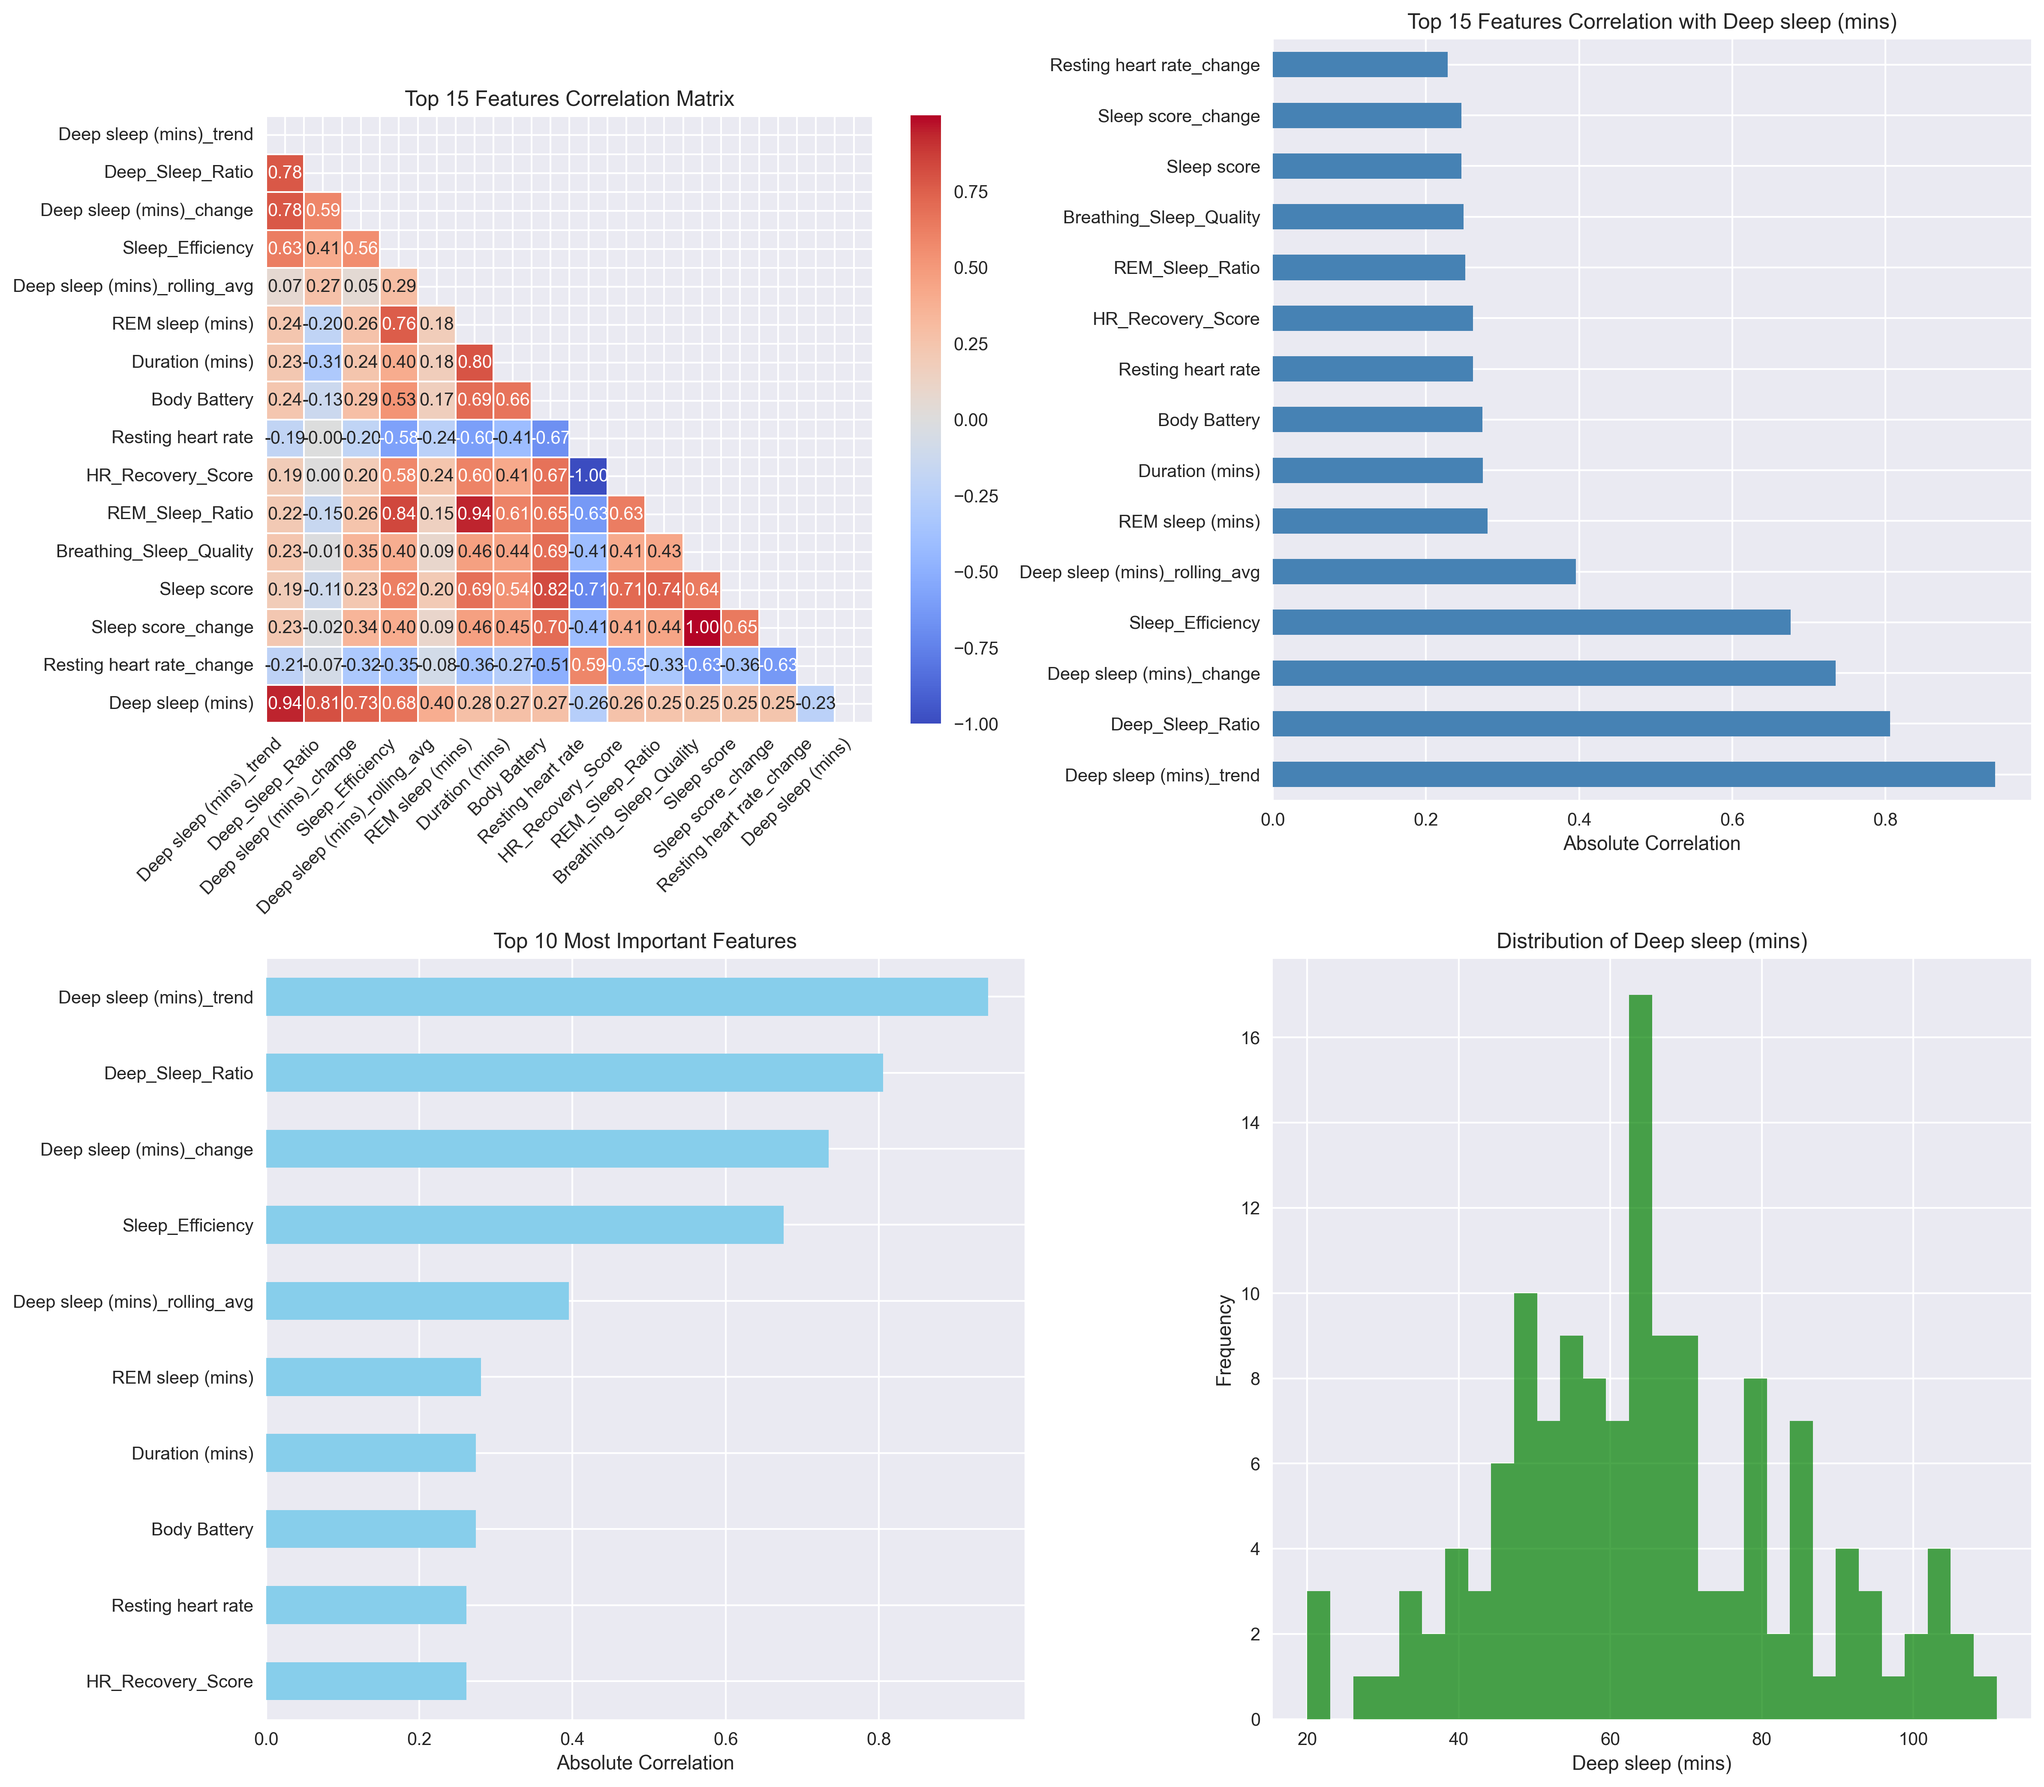
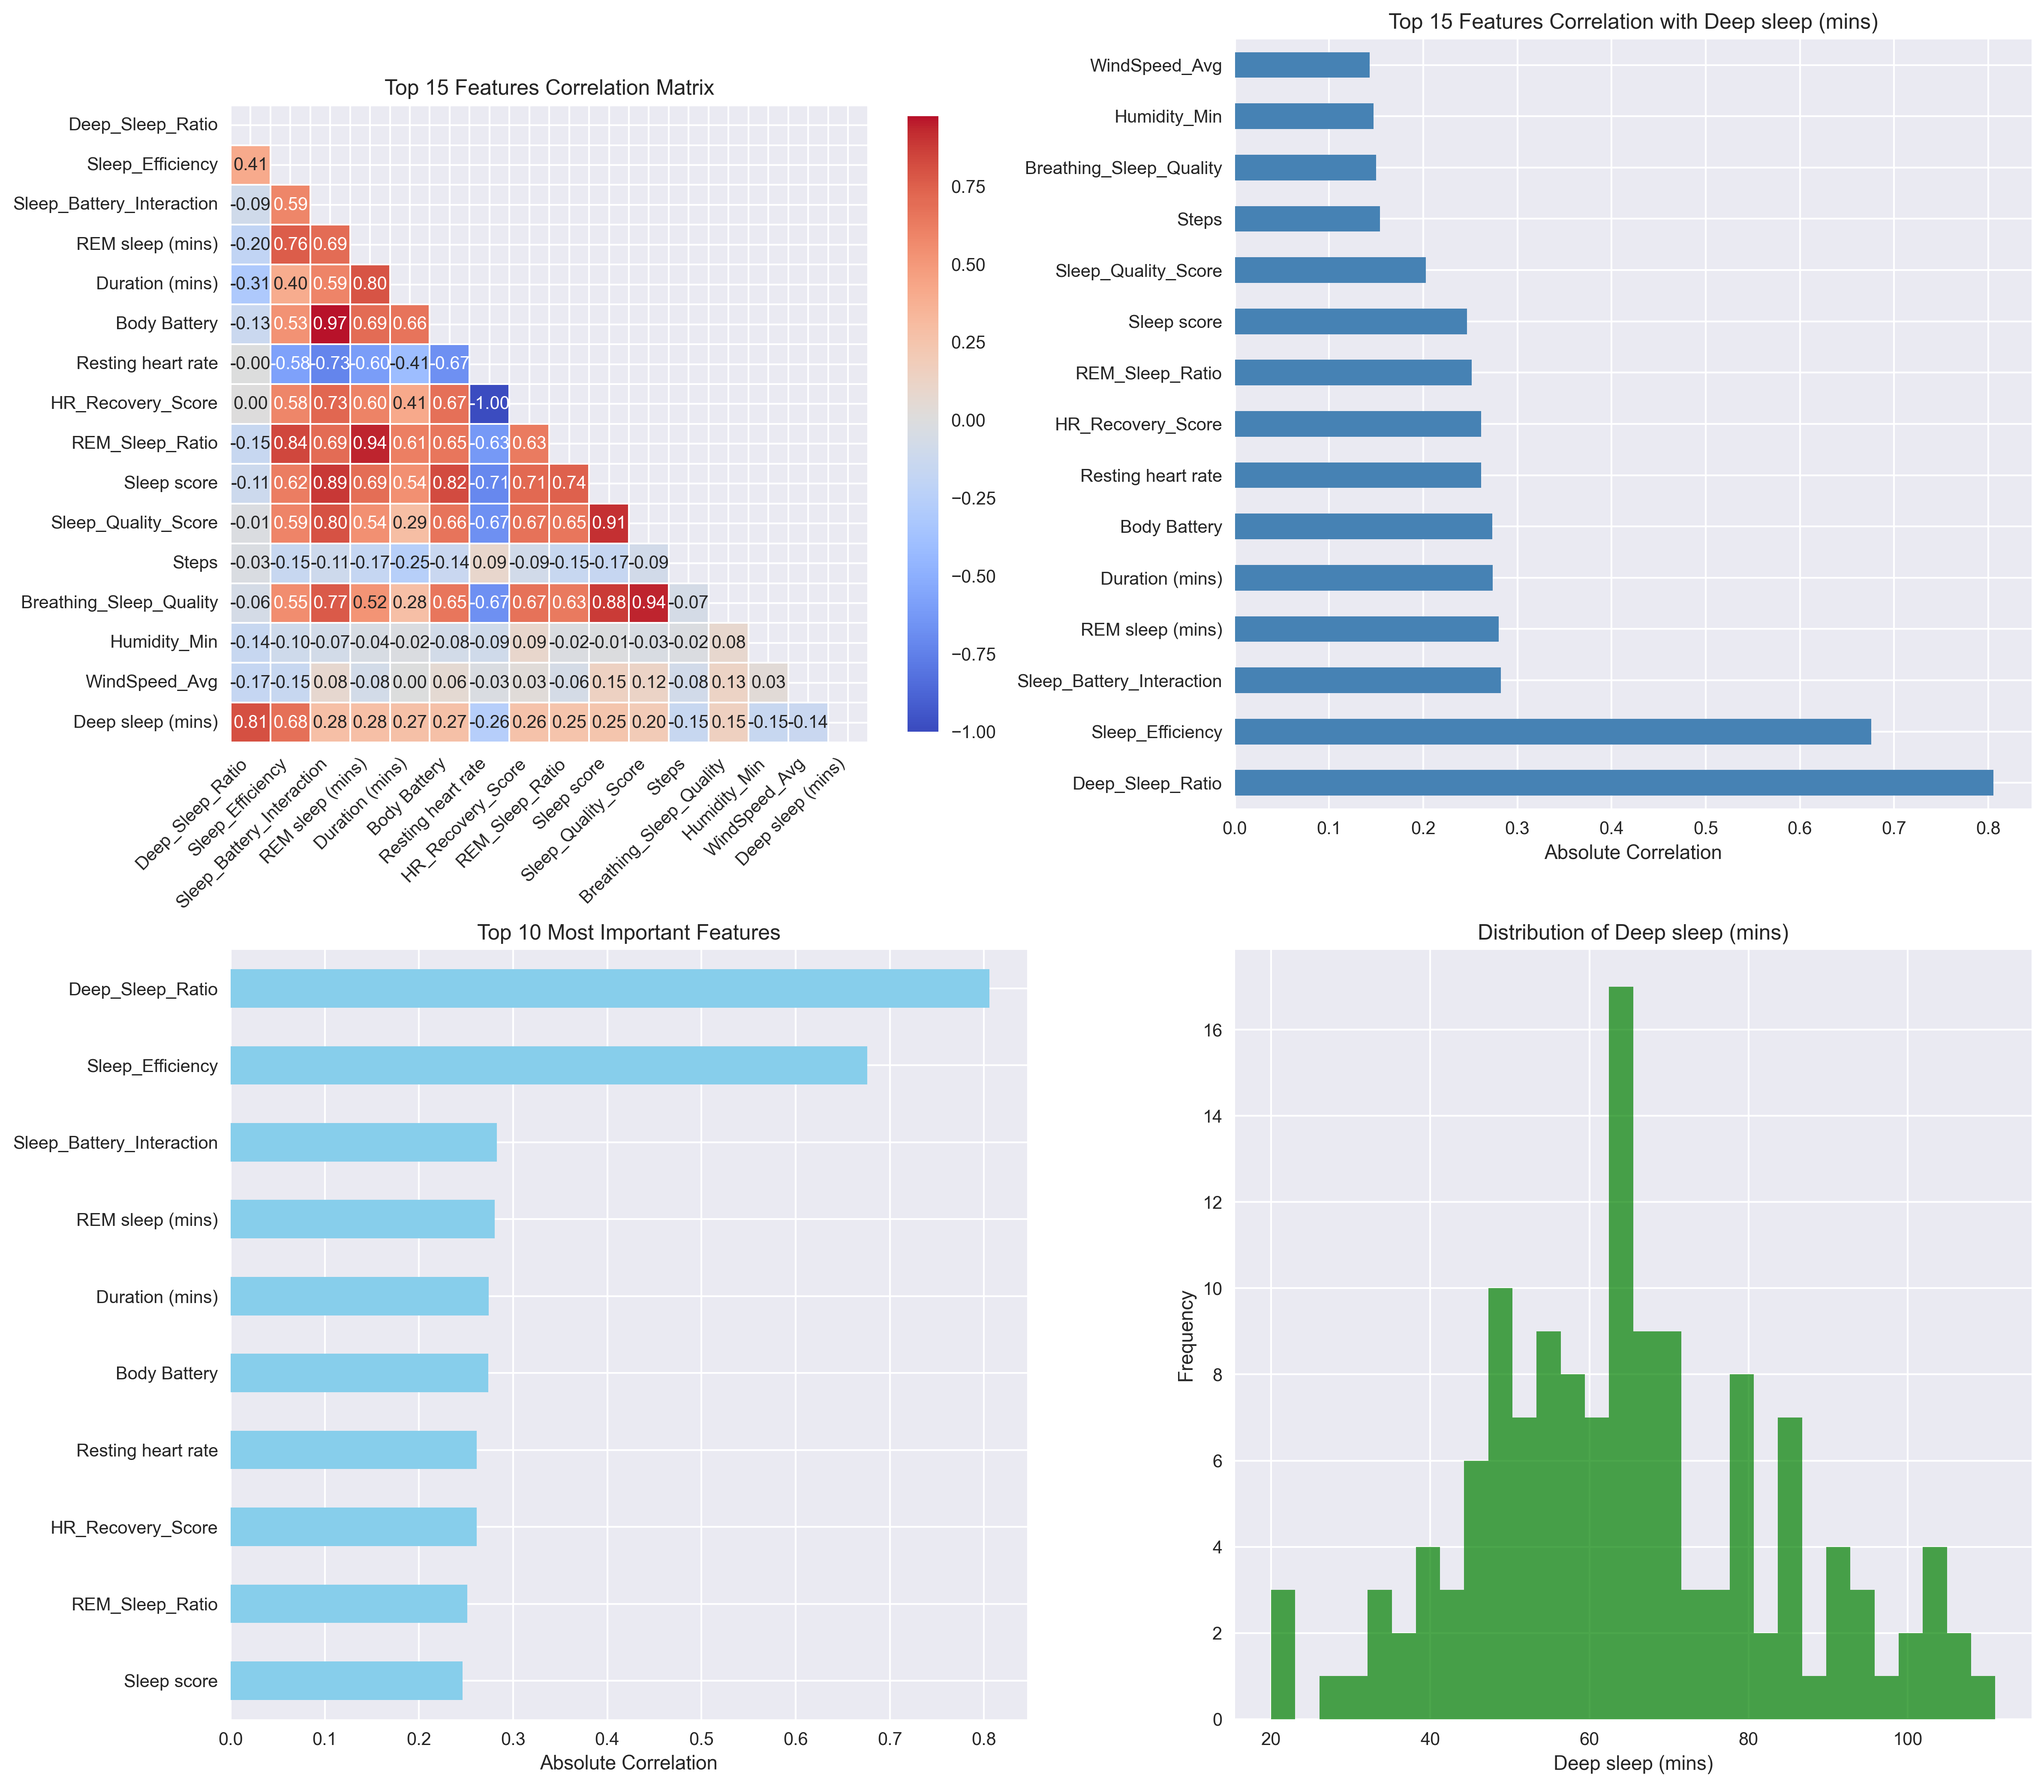
main

diff --git a/engineering.py b/engineering.py
@@ -195,43 +195,6 @@ def create_weather_features(df):
     return df
 
 
-def create_rolling_features(df, target_col='Deep sleep (mins)'):
-    """Create rolling window features"""
-    print("Creating rolling window features...")
-
-    # Sort by date for rolling calculations
-    df = df.sort_values('Date').reset_index(drop=True)
-
-    # Determine window size based on data size
-    window_size = min(7, len(df) // 3)  # Use smaller window if dataset is small
-    min_periods = max(1, window_size // 2)
-
-    print(f"Using rolling window of {window_size} days with min_periods={min_periods}")
-
-    # Find key features flexibly
-    base_features = []
-    for col in df.columns:
-        col_lower = col.lower()
-        if any(keyword in col_lower for keyword in ['sleep score', 'resting heart', 'body battery', 'hrv']):
-            if df[col].dtype in ['int64', 'float64']:  # Only numeric columns
-                base_features.append(col)
-
-    # 7-day rolling averages for found features
-    for col in base_features[:4]:  # Limit to first 4 to avoid too many features
-        if col in df.columns:
-            df[f'{col}_rolling_avg'] = df[col].rolling(window=window_size, min_periods=min_periods).mean()
-            df[f'{col}_rolling_std'] = df[col].rolling(window=window_size, min_periods=min_periods).std()
-            print(f"✓ Rolling features created for {col}")
-
-    # Target variable rolling features
-    if target_col in df.columns:
-        df[f'{target_col}_rolling_avg'] = df[target_col].rolling(window=window_size, min_periods=min_periods).mean()
-        df[f'{target_col}_trend'] = df[target_col] - df[f'{target_col}_rolling_avg']
-        print(f"✓ Rolling features created for target: {target_col}")
-
-    return df
-
-
 def create_interaction_features(df):
     """Create interaction features"""
     print("Creating interaction features...")
@@ -274,30 +237,7 @@ def create_interaction_features(df):
     return df
 
 
-def create_lag_features(df, target_col='Deep sleep (mins)'):
-    """Create lag features"""
-    print("Creating lag features...")
 
-    # Sort by date
-    df = df.sort_values('Date').reset_index(drop=True)
-
-    # Find key features flexibly
-    key_features = [target_col]  # Always include target
-
-    for col in df.columns:
-        col_lower = col.lower()
-        if any(keyword in col_lower for keyword in ['sleep score', 'body battery', 'resting heart']):
-            if df[col].dtype in ['int64', 'float64'] and col != target_col:
-                key_features.append(col)
-
-    # Previous day features
-    for feature in key_features[:4]:  # Limit to avoid too many features
-        if feature in df.columns:
-            df[f'{feature}_prev_day'] = df[feature].shift(1)
-            df[f'{feature}_change'] = df[feature] - df[f'{feature}_prev_day']
-            print(f"✓ Lag features created for {feature}")
-
-    return df
 
 
 def get_top_correlated_features(df, target_col='Deep sleep (mins)', top_n=15):
@@ -458,11 +398,7 @@ def main():
     df = create_sleep_features(df)
     df = create_weather_features(df)
 
-    if 'Date' in df.columns:
-        df = create_rolling_features(df, target_col)
-        df = create_lag_features(df, target_col)
-    else:
-        print("Skipping rolling and lag features - no Date column found")
+
 
     df = create_interaction_features(df)
 
